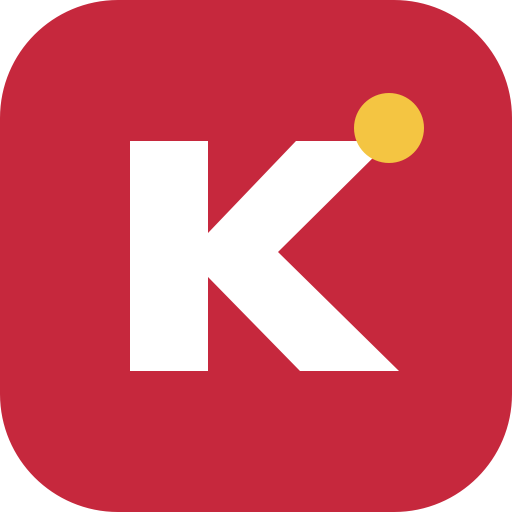
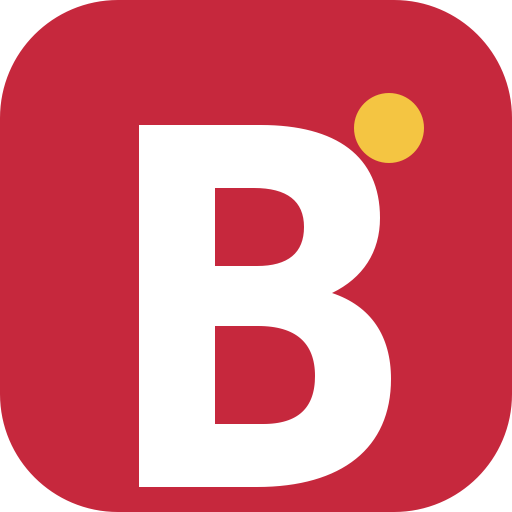
Rebrand Kondre as Boekoe for root Pages site

Changed region(s): [[0.25, 0.2188, 0.7812, 0.9688]]

diff --git a/src/App.tsx b/src/App.tsx
@@ -64,9 +64,9 @@ function Suggestions({ profiles, currentId, following, onFollow }: { profiles: P
       {profiles.filter((item) => item.id !== currentId).slice(0, 4).map((person) => <div className="suggestion" key={person.id}><Avatar profile={person} size={39} /><div><Name profile={person} /><small>@{person.username}</small></div><button className={following.includes(person.id) ? 'follow active' : 'follow'} onClick={() => onFollow(person.id)}>{following.includes(person.id) ? <Check size={16} /> : <Plus size={16} />}</button></div>)}
     </section>
     <section className="rail-card trends"><div className="rail-title"><h3>Populair in Suriname</h3><Sparkles size={18} /></div>
-      {[['#KondrePraat', '1,2K berichten'], ['#Paramaribo', '865 berichten'], ['Suriname', '642 berichten'], ['#EigenBodem', '391 berichten']].map(([topic, count]) => <button key={topic}><span>{topic}</span><small>{count}</small></button>)}
+      {[['#BoekoePraat', '1,2K berichten'], ['#Paramaribo', '865 berichten'], ['Suriname', '642 berichten'], ['#EigenBodem', '391 berichten']].map(([topic, count]) => <button key={topic}><span>{topic}</span><small>{count}</small></button>)}
     </section>
-    <p className="rail-footer">Communityregels · Privacy · Over Kondre<br />© 2026 Kondre</p>
+    <p className="rail-footer">Communityregels · Privacy · Over Boekoe<br />© 2026 Boekoe</p>
   </aside>
 }
 
@@ -110,15 +110,15 @@ function Moderation({ reports, onUpdate }: { reports: ReturnType<typeof useSocia
 export default function App() {
   const store = useSocialApp()
   const [view, setView] = useState<AppView>('feed')
-  const [dark, setDark] = useState(() => localStorage.getItem('kondre-theme') === 'dark')
+  const [dark, setDark] = useState(() => localStorage.getItem('boekoe-theme') === 'dark')
   const [toast, setToast] = useState('')
   const [editing, setEditing] = useState(false)
   const [mobileMenu, setMobileMenu] = useState(false)
-  useEffect(() => { document.documentElement.dataset.theme = dark ? 'dark' : 'light'; localStorage.setItem('kondre-theme', dark ? 'dark' : 'light') }, [dark])
+  useEffect(() => { document.documentElement.dataset.theme = dark ? 'dark' : 'light'; localStorage.setItem('boekoe-theme', dark ? 'dark' : 'light') }, [dark])
   const unread = store.notices.filter((notice) => !notice.read).length
   const feed = useMemo(() => [...store.posts].sort((a, b) => +new Date(b.createdAt) - +new Date(a.createdAt)), [store.posts])
 
-  if (!store.authReady) return <div className="loading-screen"><div className="brand-mark large">K</div><LoaderCircle className="spin" /></div>
+  if (!store.authReady) return <div className="loading-screen"><div className="brand-mark large">B</div><LoaderCircle className="spin" /></div>
   if (store.online && !store.session) return <AuthScreen busy={store.busy} error={store.error} onSubmit={store.authenticate} />
   if (!store.profile) return null
   const profile = store.profile
@@ -126,7 +126,7 @@ export default function App() {
   const post = async (body: string, file: File | null, visibility: 'public' | 'followers') => { const ok = await store.createPost(body, file, visibility); if (ok) { setToast('Je bericht staat online'); go('feed') } return ok }
 
   return <div className="app-shell">
-    <header className="topbar"><div className="topbar-inner"><button className="mobile-menu icon-button" onClick={() => setMobileMenu(!mobileMenu)}><Menu /></button><button className="wordmark" onClick={() => go('feed')}><span className="brand-mark">K</span><strong>Kondre</strong></button><div className="top-search" onClick={() => go('discover')}><Search /><span>Zoeken op Kondre</span></div><div className="top-actions"><span className={store.online ? 'mode live' : 'mode'}>{store.online ? 'Live' : 'Demo'}</span><button className="icon-button" onClick={() => setDark(!dark)} aria-label="Thema wijzigen">{dark ? <Sun /> : <Moon />}</button><button className="avatar-button" onClick={() => go('profile')}><Avatar profile={profile} size={38} /></button></div></div></header>
+    <header className="topbar"><div className="topbar-inner"><button className="mobile-menu icon-button" onClick={() => setMobileMenu(!mobileMenu)}><Menu /></button><button className="wordmark" onClick={() => go('feed')}><span className="brand-mark">B</span><strong>Boekoe</strong></button><div className="top-search" onClick={() => go('discover')}><Search /><span>Zoeken op Boekoe</span></div><div className="top-actions"><span className={store.online ? 'mode live' : 'mode'}>{store.online ? 'Live' : 'Demo'}</span><button className="icon-button" onClick={() => setDark(!dark)} aria-label="Thema wijzigen">{dark ? <Sun /> : <Moon />}</button><button className="avatar-button" onClick={() => go('profile')}><Avatar profile={profile} size={38} /></button></div></div></header>
     <div className="layout">
       <aside className={`sidebar ${mobileMenu ? 'open' : ''}`}><div className="mobile-sidebar-head"><span>Menu</span><button className="icon-button" onClick={() => setMobileMenu(false)}><X /></button></div>
         <nav>{nav.filter((item) => !item.compose).map((item) => <button key={item.view} className={view === item.view ? 'active' : ''} onClick={() => go(item.view)}><item.icon /><span>{item.label}</span>{item.view === 'notifications' && unread > 0 && <b>{unread}</b>}</button>)}{profile.isAdmin && <button className={view === 'moderation' ? 'active' : ''} onClick={() => go('moderation')}><ShieldCheck /><span>Moderatie</span></button>}</nav>
@@ -134,7 +134,7 @@ export default function App() {
       </aside>
       {mobileMenu && <div className="sidebar-scrim" onClick={() => setMobileMenu(false)} />}
       <main className="content">
-        {view === 'feed' && <div className="page-stack"><div className="feed-intro"><div><h1>Goedemorgen, {profile.fullName.split(' ')[0]} 👋</h1><p>Dit speelt er vandaag in je kondre.</p></div></div><Compose profile={profile} busy={store.busy} onPost={post} />{feed.map((item) => <PostCard key={item.id} post={item} currentUserId={profile.id} onLike={() => store.toggleLike(item.id)} onComment={(body) => store.addComment(item.id, body)} onReport={(reason) => store.submitReport(item.id, reason)} onBlock={() => store.blockUser(item.author.id)} onToast={setToast} />)}</div>}
+        {view === 'feed' && <div className="page-stack"><div className="feed-intro"><div><h1>Goedemorgen, {profile.fullName.split(' ')[0]} 👋</h1><p>Dit speelt er vandaag in je community.</p></div></div><Compose profile={profile} busy={store.busy} onPost={post} />{feed.map((item) => <PostCard key={item.id} post={item} currentUserId={profile.id} onLike={() => store.toggleLike(item.id)} onComment={(body) => store.addComment(item.id, body)} onReport={(reason) => store.submitReport(item.id, reason)} onBlock={() => store.blockUser(item.author.id)} onToast={setToast} />)}</div>}
         {view === 'compose' && <div className="page-stack"><div className="simple-title"><h1>Nieuw bericht</h1><p>Deel iets met je community</p></div><Compose profile={profile} busy={store.busy} autofocus onPost={post} /></div>}
         {view === 'discover' && <Discover profiles={store.profiles} posts={store.posts} currentId={profile.id} following={store.following} onFollow={store.toggleFollow} />}
         {view === 'notifications' && <Notifications notices={store.notices} onRead={store.markNoticesRead} />}

diff --git a/src/components/AuthScreen.tsx b/src/components/AuthScreen.tsx
@@ -12,7 +12,7 @@ export function AuthScreen({ busy, error, onSubmit }: { busy: boolean; error: st
     setMessage(result.message)
   }
   return <main className="auth-shell">
-    <section className="auth-brand"><div className="brand-mark large">K</div><h1>Kondre</h1><p>Samen praten. Samen ontdekken.<br />Samen Suriname.</p><div className="flag-stripe" /></section>
+    <section className="auth-brand"><div className="brand-mark large">B</div><h1>Boekoe</h1><p>Samen praten. Samen ontdekken.<br />Samen Suriname.</p><div className="flag-stripe" /></section>
     <section className="auth-panel"><div className="auth-card">
       <div className="auth-tabs"><button className={mode === 'login' ? 'active' : ''} onClick={() => setMode('login')}>Inloggen</button><button className={mode === 'signup' ? 'active' : ''} onClick={() => setMode('signup')}>Account maken</button></div>
       <form onSubmit={submit} autoComplete="on">
@@ -22,7 +22,7 @@ export function AuthScreen({ busy, error, onSubmit }: { busy: boolean; error: st
         {(error || message) && <p className={error ? 'form-error' : 'form-success'}>{error || message}</p>}
         <button className="primary wide" disabled={busy}>{busy && <LoaderCircle className="spin" />} {mode === 'login' ? 'Inloggen' : 'Gratis account maken'}</button>
       </form>
-      <p className="terms">Door verder te gaan accepteer je de communityregels en privacyvoorwaarden van Kondre.</p>
+      <p className="terms">Door verder te gaan accepteer je de communityregels en privacyvoorwaarden van Boekoe.</p>
     </div></section>
   </main>
 }

diff --git a/src/lib/useSocialApp.ts b/src/lib/useSocialApp.ts
@@ -4,7 +4,7 @@ import type { Notice, Post, Profile, Report } from '../types'
 import { demoNotices, demoPosts, demoReports, demoUser, people } from './demo'
 import { hasSupabase, supabase } from './supabase'
 
-const STORAGE_KEY = 'kondre-demo-v1'
+const STORAGE_KEY = 'boekoe-demo-v1'
 
 type DemoState = { posts: Post[]; following: string[]; notices: Notice[]; reports: Report[]; profile: Profile }
 
@@ -18,7 +18,7 @@ function readDemo(): DemoState {
 }
 
 const rowProfile = (row: any): Profile => ({
-  id: row.id, username: row.username || 'gebruiker', fullName: row.full_name || row.username || 'Kondre-gebruiker',
+  id: row.id, username: row.username || 'gebruiker', fullName: row.full_name || row.username || 'Boekoe-gebruiker',
   bio: row.bio || '', location: row.location || 'Suriname', avatarUrl: row.avatar_url || '', coverUrl: row.cover_url || '',
   verified: Boolean(row.verified), isAdmin: Boolean(row.is_admin), followers: row.followers_count || 0, following: row.following_count || 0,
 })
@@ -90,7 +90,7 @@ export function useSocialApp() {
   useEffect(() => {
     if (!supabase || !session) return
     const client = supabase
-    const channel = client.channel('kondre-feed').on('postgres_changes', { event: '*', schema: 'public', table: 'posts' }, () => loadOnline(session)).subscribe()
+    const channel = client.channel('boekoe-feed').on('postgres_changes', { event: '*', schema: 'public', table: 'posts' }, () => loadOnline(session)).subscribe()
     return () => { client.removeChannel(channel) }
   }, [session, loadOnline])
 

diff --git a/index.html b/index.html
@@ -4,14 +4,14 @@
     <meta charset="UTF-8" />
     <meta name="viewport" content="width=device-width, initial-scale=1.0, viewport-fit=cover" />
     <meta name="theme-color" content="#c6283d" />
-    <meta name="description" content="Kondre — de Surinaamse community-app" />
+    <meta name="description" content="Boekoe — de Surinaamse community-app" />
     <meta name="apple-mobile-web-app-capable" content="yes" />
     <meta name="apple-mobile-web-app-status-bar-style" content="black-translucent" />
-    <meta name="apple-mobile-web-app-title" content="Kondre" />
-    <link rel="manifest" href="/kondre-sr/manifest.webmanifest" />
-    <link rel="icon" href="/kondre-sr/icon.svg" type="image/svg+xml" />
-    <link rel="apple-touch-icon" href="/kondre-sr/icon-192.png" />
-    <title>Kondre — Samen in Suriname</title>
+    <meta name="apple-mobile-web-app-title" content="Boekoe" />
+    <link rel="manifest" href="/manifest.webmanifest" />
+    <link rel="icon" href="/icon.svg" type="image/svg+xml" />
+    <link rel="apple-touch-icon" href="/icon-192.png" />
+    <title>Boekoe — Samen in Suriname</title>
   </head>
   <body>
     <div id="root"></div>

diff --git a/src/lib/demo.ts b/src/lib/demo.ts
@@ -50,7 +50,7 @@ export const demoNotices: Notice[] = [
   { id: 'n1', kind: 'follow', actor: people[5], text: 'is je gaan volgen', createdAt: new Date(Date.now() - 18 * 60_000).toISOString(), read: false },
   { id: 'n2', kind: 'like', actor: people[1], text: 'vindt je bericht leuk', createdAt: new Date(Date.now() - 75 * 60_000).toISOString(), read: false },
   { id: 'n3', kind: 'comment', actor: people[4], text: 'reageerde: “Dit moeten we vaker doen!”', createdAt: new Date(Date.now() - 4 * 3_600_000).toISOString(), read: true },
-  { id: 'n4', kind: 'system', text: 'Welkom bij Kondre. Samen houden we het veilig en gezellig.', createdAt: new Date(Date.now() - 26 * 3_600_000).toISOString(), read: true },
+  { id: 'n4', kind: 'system', text: 'Welkom bij Boekoe. Samen houden we het veilig en gezellig.', createdAt: new Date(Date.now() - 26 * 3_600_000).toISOString(), read: true },
 ]
 
 export const demoReports: Report[] = [

diff --git a/vite.config.ts b/vite.config.ts
@@ -2,7 +2,7 @@ import { defineConfig } from 'vite'
 import react from '@vitejs/plugin-react'
 
 export default defineConfig({
-  base: '/kondre-sr/',
+  base: '/',
   plugins: [react()],
   server: { host: true },
   preview: { host: true },

diff --git a/public/sw.js b/public/sw.js
@@ -1,5 +1,5 @@
-const CACHE = 'kondre-v3-sr'
-const BASE = '/kondre-sr/'
+const CACHE = 'boekoe-v1'
+const BASE = '/'
 const SHELL = [BASE, `${BASE}manifest.webmanifest`, `${BASE}icon.svg`]
 
 self.addEventListener('install', (event) => {

diff --git a/README.md b/README.md
@@ -1,10 +1,10 @@
-# Kondre
+# Boekoe
 
-Kondre is een mobile-first Surinaamse community-app. Hij werkt direct als interactieve demo en kan met een gratis Supabase-project als echte multi-user PWA draaien.
+Boekoe is een mobile-first Surinaamse community-app. Hij werkt direct als interactieve demo en kan met een gratis Supabase-project als echte multi-user PWA draaien.
 
 ## Online versie
 
-De productieversie staat op [https://adanielvv.github.io/kondre-sr/](https://adanielvv.github.io/kondre-sr/). De frontend draait gratis op GitHub Pages; accounts, database, foto's en live updates draaien op de gratis Supabase-laag.
+De productieversie staat op [https://boekoe.github.io/](https://boekoe.github.io/). De frontend draait gratis op GitHub Pages; accounts, database, foto's en live updates draaien op de gratis Supabase-laag.
 
 ## Wat werkt
 
@@ -26,7 +26,7 @@ npm install
 npm run dev
 ```
 
-Open daarna de URL die Vite toont. Zonder `.env` draait Kondre automatisch in demomodus.
+Open daarna de URL die Vite toont. Zonder `.env` draait Boekoe automatisch in demomodus.
 
 ## Echte accounts en gedeelde data activeren
 
